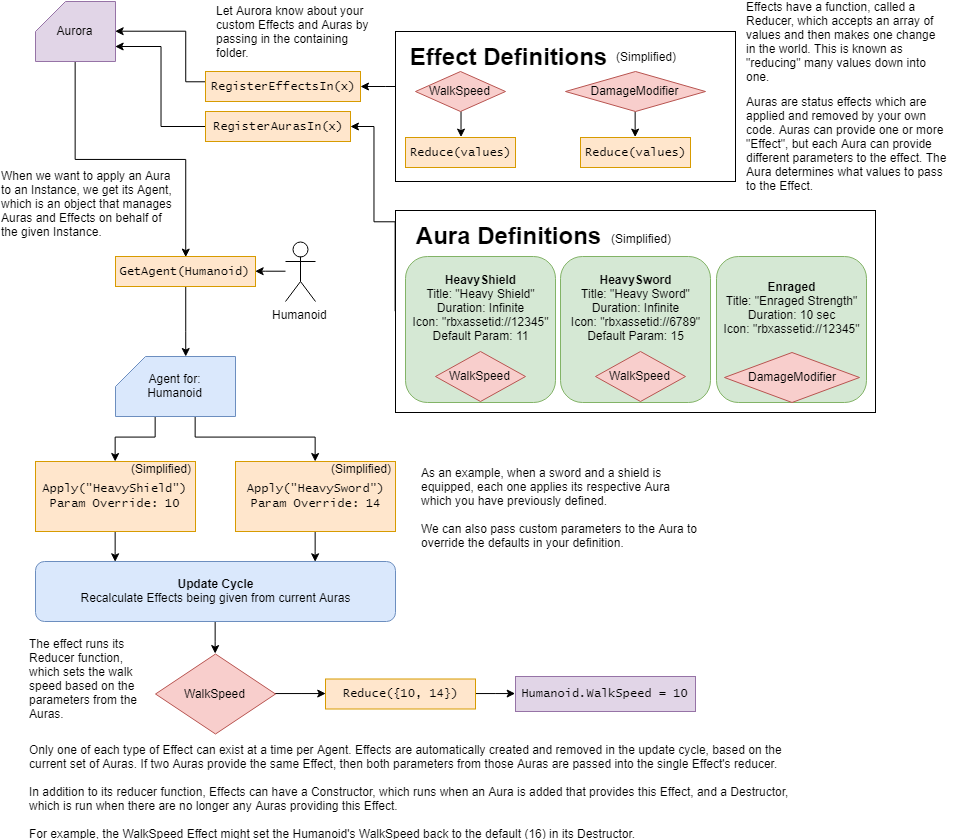
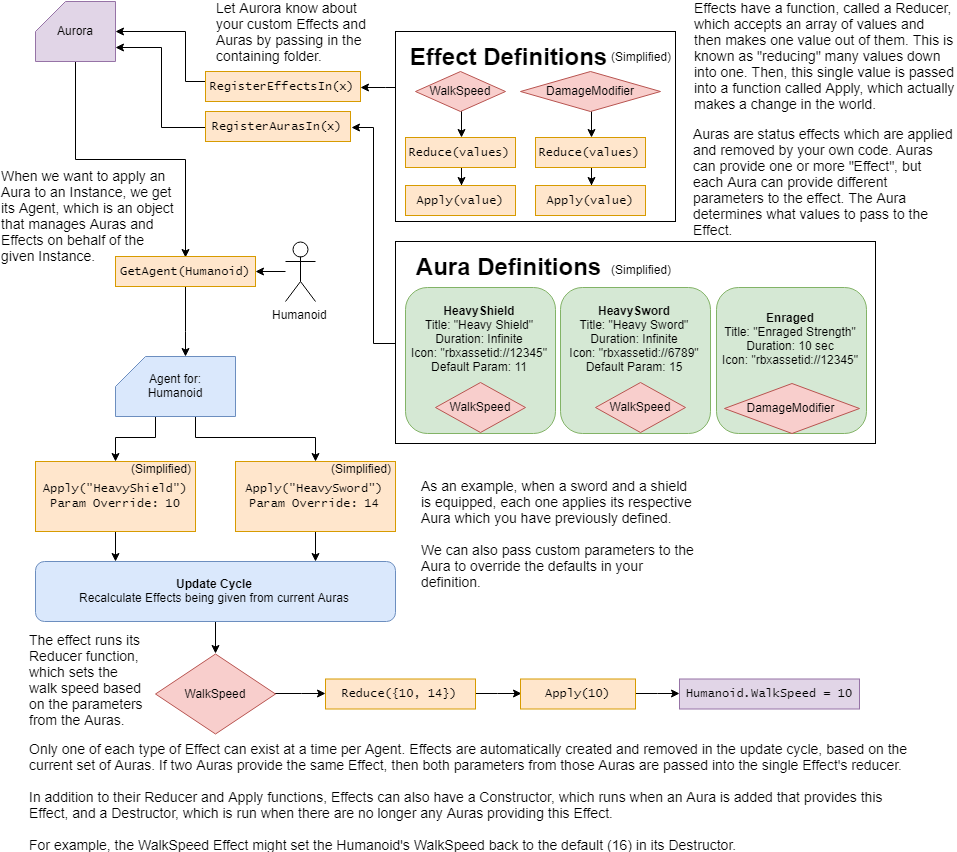
Add GetLastReducedValue
Closes #3

diff --git a/README.md b/README.md
@@ -9,7 +9,7 @@ Current status: Functional and ready for real world application.
 
 **Aurora** is a library that can manage status effects (known as "Auras") in your Roblox game. These Auras are much akin to "buffs" and "debuffs" as seen in many games.
 
-Using Aurora can help you stay sane while managing complex game state when multiple parts of your game need to keep track of or change the same resource.
+Using Aurora can help you stay sane while managing complex game state when multiple parts of your game need to keep track of or change the same resource. *It's like Redux, but for games!*
 
 Aurora is made for and requires [RoStrap](https://rostrap.github.io/), a light weight module management system.
 
@@ -19,7 +19,7 @@ A classic example of the problem that Aurora aims to solve is changing the playe
 
 But what if you want something else to change the player's walk speed as well, potentially at the same time? For example, in addition to the heavy weapon, say the player could equip a shield which also slows them down a bit. If we follow the same flow as when we implemented the logic for the heavy weapon above, we now have a problem: The player can equip both the heavy weapon and the shield, and then unequip the heavy weapon. Now, the player can walk around at full speed with a shield up when they should still be slowed!
 
-Aurora solves this problem correctly by allowing you to apply a movement speed Aura from each of your equipped items. Each Aura would then provide the movement speed altering *Effect*, each of which can have different intensities. Then, every update cycle, Aurora will group all similar *Effects* and feed all of their values into a reducer function. In this case, the function will find the lowest value from all of the Effects, and then set the player's WalkSpeed to that number.
+Aurora solves this problem correctly by allowing you to apply a movement speed Aura from each of your equipped items. Each Aura would then provide the movement speed altering *Effect*, each of which can have different intensities. Then, every update cycle, Aurora will group all similar *Effects* and feed all of their values into a single reducer function. In this case, the function will find the lowest value from all of the Auras, and then the player's WalkSpeed will be set to that number.
 
 <img src="assets/Diagram.svg" alt="Aurora" />
 
@@ -59,7 +59,7 @@ ModuleScripts under the container with an Aura name appended with "Server" (case
 See *RegisterAurasIn* just above. Everything is exactly the same. Except, of course, that ModuleScripts inside these containers must export Effects, not Auras.
 
 #### `Aurora.SetTickRate(seconds: number): void`
-Sets how often, in seconds, that all Auras and Effects will be updated. "Updating" in this context refers to lowering remaining duration on Auras, removing expired Auras, and most importantly calling the "Reducer" method on Effects.
+Sets how often, in seconds, that all Auras and Effects will be updated. "Updating" in this context refers to lowering remaining duration on Auras, removing expired Auras, and most importantly calling the "Reducer" and "Apply" methods on Effects.
 
 The default value is `0.5` seconds.
 
@@ -146,9 +146,6 @@ Returns `true` if an Aura was actually consumed, `false` if nothing happened bec
 #### `Agent:Has(auraName: string): boolean`
 Returns `true` if an Aura of the given name is currently applied to this Agent, `false` otherwise.
 
-#### `Agent:HasEffect(effectName: string): boolean`
-Returns `true` if an Effect of the given name is currently active on this Agent, `false` otherwise.
-
 #### `Agent:Get(auraName: string): Aura?`
 Returns the Aura of the given name if it's currently applied to this Agent, `nil` otherwise.
 
@@ -158,6 +155,12 @@ Do not store the return value from this method for long, because Auras can be cr
 Returns an array of all Auras currently applied to this Agent.
 
 Do not store the return values from this method for long, because Auras can be created and destroyed quickly. Storing these values or trapping them in a closure will cause memory leaks.
+
+#### `Agent:HasEffect(effectName: string): boolean`
+Returns `true` if an Effect of the given name is currently active on this Agent, `false` otherwise.
+
+#### `Agent:GetLastReducedValue(effectName: string): any`
+Returns the last value that was returned by the given Effect's Reducer function, or `nil` if the Effect doesn't exist on this Agent. This method is most useful for when it's more appropriate for your code to "reach in" to Aurora and pull out the value from an Effect, rather than "reaching out" from Aurora and making a change in the world with the Apply function.
 
 #### `Agent:Destroy(): void`
 Destroys this Agent, rendering it unusable. All events will be disconnected, Effects will be deconstructed, Auras will be removed, it will no longer be updated or kept in memory internally, and calling any further methods on this Agent will raise an error.
@@ -312,11 +315,12 @@ Note: Hooks do not fire during the initial world snapshot playback when a player
 
 Auras can provide Effects (with various parameters), which are used to actually make changes to the world. Effects are explicitly defined by the developer just like Auras. Unlike Auras, however, an Effect can only exist once per Agent, and they are automatically created and destroyed based on what Effects are provided by the current set of Auras.
 
-Effects are made up of three functions: a `Constructor`, a `Destructor`, and a `Reducer`.
+Effects are made up of four functions, which are all optional: `Constructor`, `Reducer`, `Apply`, and `Destructor`.
 
 - The `Constructor` is called whenever one of the Auras starts providing this Effect. It can be used to create any necessary objects needed to enact or display this Effect.
   - For example, if you want to display a "dizzy" indicator above a player when they are stunned, this function could create that and put it inside the character.
-- The `Reducer` is called every update cycle, and takes in any parameters given by Auras which are providing this Effect. It is then the Reducer's job to determine what changes to make to the world state.
+- The `Reducer` is called every update cycle, and takes in any parameters given by Auras which are providing this Effect as an array. It is then this function's job to *reduce* these values into one value and then return it.
+- The `Apply` function is called immediately after the Reducer, and it is given whatever `Apply` returned as arguments. This function should actually make a change in the world based on the reduced value it is given. This separation is enforced so that the reduced value can be captured for `Agent:GetLastReducedValue` to work as expected.
 - The `Destructor` is called when there are no longer any Auras providing this Effect. It can be used to clean up any objects that were created in the Constructor.
 
 ### Definition
@@ -343,7 +347,7 @@ return {
   Reducer = function (self, values)
     -- `values` is an array containing the resolved value from every Aura that
     -- is providing this Effect. Here, we need to take all of these values and
-    -- then *reduce* them down into a change we make into the world.
+    -- then *reduce* them down into a single value.
 
     local walkSpeed = math.huge
 
@@ -353,6 +357,13 @@ return {
       end
     end
 
+    return walkSpeed
+  end;
+
+  -- The Apply function is called immediately after the Reducer returns.
+  -- It is given any values that the Reducer function returns.
+  -- We then take the reduced value and *apply* a change in the world.
+  Apply = function (self, walkSpeed)
     self.Instance.WalkSpeed = walkSpeed
   end;
 
